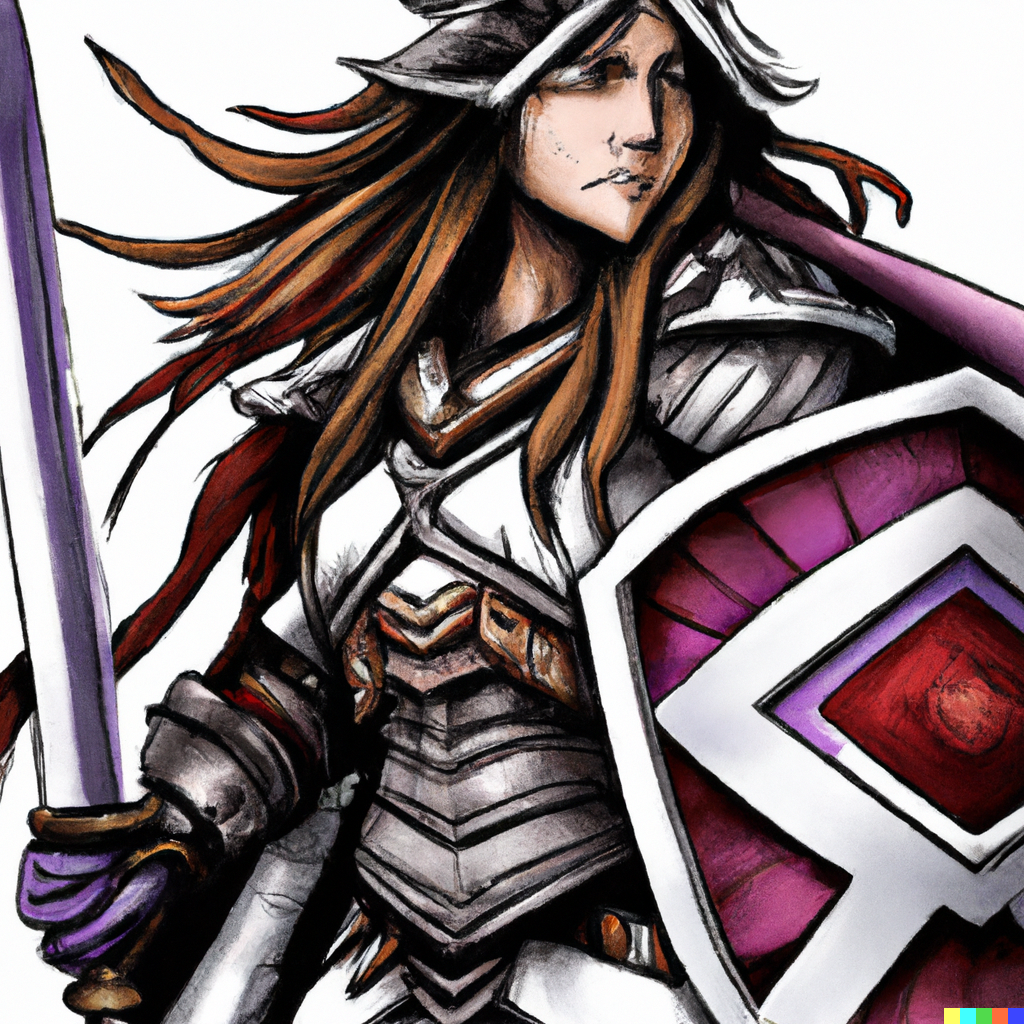
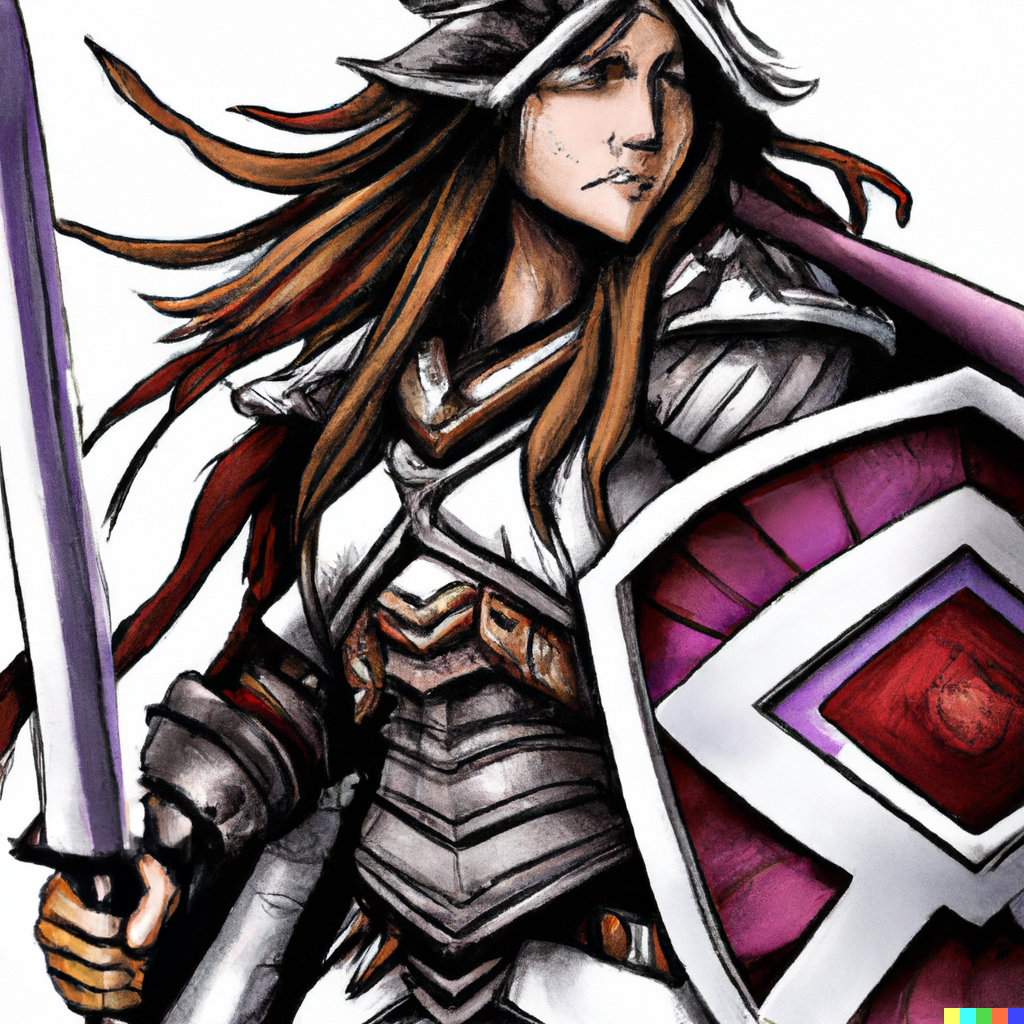
add more images

Changed region(s): [[0.0, 0.7812, 0.2188, 1.0]]

diff --git a/core_book/TheUniverse.tex b/core_book/TheUniverse.tex
@@ -39,7 +39,8 @@
     This is the standard explanation for clerics, druids, paladins, and warlocks.
 
 \section{Personal Power Comes From Great Deeds}
-    The average person in the world of Rise is not particularly more or less competent than the average person in the real world.
+    \includegraphics[width=\columnwidth]{the universe/great deeds}
+    The average person in the world of Rise is not particularly more or less capable than the average person in the real world.
     Training can help people improve their skills, but as in the real world, anyone who tries to improve themselves through training and practice eventually reaches an upper limit to their potential.
     However, unlike in the real world, people in Rise can reach beyond their ordinary limitations.
     By defeating powerful foes and performing great deeds that influence the world around them, people can gain levels, which allows them to reach new heights of power.
@@ -66,6 +67,8 @@
     There are many people in the world who were adventurers at some point in their past, and everyone is familiar with the concept, but active adventurers are still unusual.
 
 \section{Deities and Afterlifes}\label{Deities and Afterlifes}
+    \includegraphics[width=\columnwidth]{the universe/deities and afterlifes}
+
     When a humanoid creature dies in Rise, they know beyond a shadow of a doubt that they will go to an afterlife.
     Most likely, they know exactly which afterlife they will go to, either as a result of their alignment or their worship of a particular deity.
     In that afterlife, they will live again for as long as they want, though they cannot leave without being magically resurrected.
@@ -133,6 +136,7 @@
     \end{dtable!*}
 
 \section{Secrets of the Universe}
+    \includegraphics[width=\columnwidth]{the universe/secrets of the universe}
 
     There are many mysteries in the universe of Rise.
     This section gives a glimpse into some of the underlying truths, though few characters in the universe would understand such details.
@@ -267,6 +271,7 @@
             In addition, this allows deities to eventually reclaim the soul energy they invested in their clerics.
 
         \subsubsection{Nature}
+            \includegraphics[width=\columnwidth]{the universe/nature}
             Nature itself has an immensely vast soul, but although people can worship Nature, it is not a deity because does not depend on mortal worship for its power.
             Nature claims the greatest tithe of every unclaimed death - every predator hunting a prey, every swatted fly.
             These souls are individually tiny.
@@ -341,6 +346,7 @@
             Reasonable theories that might have truth to them in some contexts could include ``monsters have evolved to instinctively avoid civilization to avoid death from monster hunters'', ``druids magically discourage monsters from entering civilization so they don't get killed'', or ``monsters have to kill other strong monsters to get stronger, so they try to avoid areas that don't have any powerful prey''.
 
 \section{Planes}\label{Planes}
+    \includegraphics[width=\columnwidth]{the universe/planes}
     The universe of Rise is divided into planes.
     A plane is a distinct realm of existence.
     Except for the connections between planes through planar rifts, each plane is effectively an isolated universe, and different planes can obey different fundamental laws.

diff --git a/core_book/Characters.tex b/core_book/Characters.tex
@@ -183,6 +183,7 @@ You can either skim past terms you don't yet understand or look them up as you g
     At the GM's discretion, you may be able to play a character with a more unusual species (see \pcref{Uncommon Species}).
 
     \subsection{Humans}
+        \includegraphics[width=\columnwidth]{characters/human}
 
         Humans are the most common and least well-defined of all Rise species.
         They are not the smartest, the strongest, or the most durable of the civilized races.
@@ -205,6 +206,7 @@ You can either skim past terms you don't yet understand or look them up as you g
         \parhead{Automatic Language} Common, any two \glossterm{common languages} or one \glossterm{rare language} (see \pcref{Communication and Languages}).
 
     \subsection{Dwarves}
+        \includegraphics[width=\columnwidth]{characters/dwarf}
 
         Dwarves are short, stout, and sturdy.
         It has been said that the first dwarf was carved from stone, and the similarities have been noted by many.
@@ -231,6 +233,7 @@ You can either skim past terms you don't yet understand or look them up as you g
         \parhead{Automatic Languages} Common, Dwarven, any one \glossterm{common language} (see \tref{Common Languages}).
 
     \subsection{Elves}
+        \includegraphics[width=\columnwidth]{characters/elf}
 
         Elves are tall, lithe, and graceful.
         They tend to have an air of confidence at all times, and even their mistakes seem intentional.
@@ -256,6 +259,7 @@ You can either skim past terms you don't yet understand or look them up as you g
         \parhead{Automatic Languages} Common, Elven, any one \glossterm{common language} (see \tref{Common Languages}).
 
     \subsection{Gnomes}
+        \includegraphics[width=\columnwidth]{characters/gnome}
 
         Gnomes are the smallest, most magical, and most short-lived of the civilized species.
         Their large eyes and heads give even adult gnomes almost child-like proportions.
@@ -287,6 +291,7 @@ You can either skim past terms you don't yet understand or look them up as you g
         \parhead{Automatic Languages} Common, Gnome, either Sylvan or any one \glossterm{common language} (see \tref{Common Languages}).
 
     \subsection{Half-Elves}\label{Half-Elves}
+        \includegraphics[width=\columnwidth]{characters/halfelf}
 
         Half-elves carry both human and elven heritage.
         They are caught between two worlds, with neither the unconscious grace of elves nor the limitless adaptability of humans.
@@ -303,6 +308,7 @@ You can either skim past terms you don't yet understand or look them up as you g
         \parhead{Automatic Language} Common, Elven, any two \glossterm{common languages} or one \glossterm{rare language} (see \pcref{Communication and Languages}).
 
     \subsection{Half-Orcs}
+        \includegraphics[width=\columnwidth]{characters/halforc}
 
         Half-orcs carry both human and orcish heritage.
         They have much of the brute strength of orcs, but tempered by human adaptability.
@@ -319,6 +325,7 @@ You can either skim past terms you don't yet understand or look them up as you g
         \parhead{Automatic Languages} Common, Orcish.
 
     \subsection{Halflings}
+        \includegraphics[width=\columnwidth]{characters/halfling}
 
         Halflings stand at about half the height of a human, but have generally human-like proportions.
         They tend to be plucky, adventurous, and outgoing.